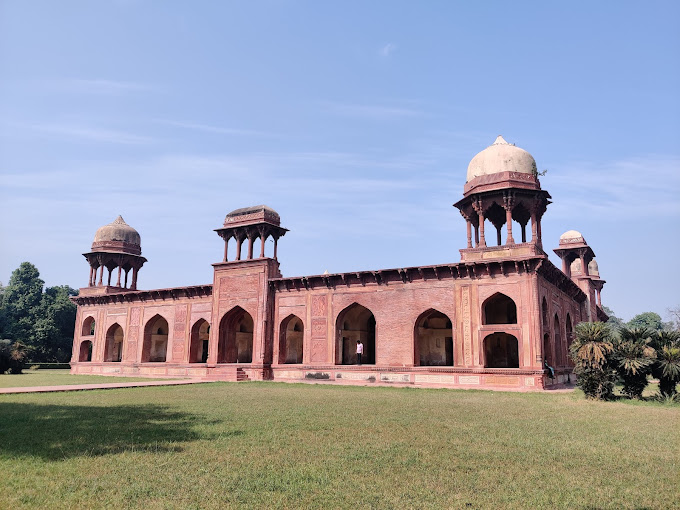
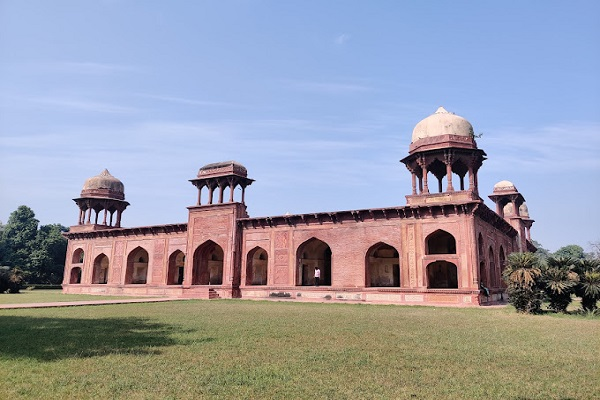
resize

diff --git a/detail-info/bibi-ka-maqbara.html b/detail-info/bibi-ka-maqbara.html
@@ -1,0 +1,66 @@
+
+
+<!DOCTYPE html>
+<html lang="en">
+  <head>
+    <meta charset="UTF-8" />
+    <meta http-equiv="X-UA-Compatible" content="IE=edge" />
+    <meta name="viewport" content="width=device-width, initial-scale=1.0" />
+    <link
+      href="https://cdn.jsdelivr.net/npm/bootstrap@5.3.0-alpha1/dist/css/bootstrap.min.css"
+      rel="stylesheet"
+      integrity="sha384-GLhlTQ8iRABdZLl6O3oVMWSktQOp6b7In1Zl3/Jr59b6EGGoI1aFkw7cmDA6j6gD"
+      crossorigin="anonymous"
+    />
+    <link href="../styles.css" rel="stylesheet" />
+    <link href="../mobile.css" rel="stylesheet" />
+    <title>Bibi-Ka-Maqbara| Monuments info app </title>
+  </head>
+  <body>
+    <nav class="navbar sticky-top header">
+      <!-- Navbar content -->
+      <a class="navbar-brand logo">Monuments info App</a>
+    </nav>
+
+    <section class="detail-header">
+      <div class="container text-center">
+        <div class="row">
+          <div class="col">
+            <img src="../assets/Bibi Ka Maqbara.jpg" class="" />
+          </div>
+          <div class="col">
+            <h2 class="title text-center">Bibi Ka Maqbara</h2>
+            <hr style="color: white; height: 20px" />
+          </div>
+        </div>
+      </div>
+      <!--  -->
+    </section>
+    <section class="detail-bar" >
+      <div class=" conatiner">
+        <div class="row detail-status-bar">
+          <div class="col">
+            Country: India
+          </div>
+          <div class="col">
+            Place: Aurangabad, Maharashtra
+          </div>
+          <div class="col">
+           Type: Cultural
+          </div>
+      </div>
+    </section>
+
+    <section class="detail">
+      <p class="text">The Bibi Ka Maqbara (English: "Tomb of the Lady") is a tomb located in Aurangabad, Maharashtra, India. It was commissioned in 1660 by the Mughal emperor Aurangzeb in the memory of his wife Dilras Banu Begum (posthumously known as Rabia-ud-Daurani) and is considered to be a symbol of Aurangzeb's 'conjugal fidelity'. It bears a striking resemblance to the Taj Mahal, the mausoleum of Aurangzeb's mother, Mumtaz Mahal. Aurangzeb was not much interested in architecture though he had commissioned the small, but elegant, Pearl Mosque at Delhi. Bibi Ka Maqbara is the second largest structure that Aurangzeb has built, the largest being the Badshahi Mosque.</p>
+
+      <p class="text"> The comparison to the Taj Mahal has often obscured its very own considerable charm.[8] Due to the strong resemblance, it is also called the Dakkhani Taj (Taj of the Deccan).Bibi Ka Maqbara is the "principal monument" of Aurangabad and its historic city. An inscription found on the main entrance door mentions that this mausoleum was designed and erected by Ata-ullah, an architect and Hanspat Rai, an engineer respectively.Ata-ullah was the son of Ustad Ahmad Lahauri, the principal designer of the Taj Mahal.Aurangzeb's son, Muhammad Azam Shah was in later years put in charge of overseeing the repair-work of the mausoleum by Shah Jahan.</p>
+    </section>
+  </body>
+
+  <script
+    src="https://cdn.jsdelivr.net/npm/bootstrap@5.3.0-alpha1/dist/js/bootstrap.bundle.min.js"
+    integrity="sha384-w76AqPfDkMBDXo30jS1Sgez6pr3x5MlQ1ZAGC+nuZB+EYdgRZgiwxhTBTkF7CXvN"
+    crossorigin="anonymous"
+  ></script>
+</html>

diff --git a/index.html b/index.html
@@ -148,7 +148,9 @@
               />
               <div class="card-body">
                 <h3 class="card-text">Bibi Ka Maqbara</h3>
-                <button type="button" class="btn">Read More</button>
+                <button type="button" class="btn">
+                  <a href="./detail-info/bibi-ka-maqbara.html">Read More</a>
+                </button>
               </div>
             </div>
           </div>
@@ -184,12 +186,12 @@
           <div class="col-12 col-md-4">
             <div class="card">
               <img
-                src="./assets/Charminar.jpg"
+                src="./assets/konark-sun-temple.jpg"
                 class="card-img"
-                alt="Charminar"
+                alt="konark-sun-temple"
               />
               <div class="card-body">
-                <h3 class="card-text">Charminar</h3>
+                <h3 class="card-text">konark Sun Temple</h3>
                 <button type="button" class="btn">Read More</button>
               </div>
             </div>

diff --git a/styles.css b/styles.css
@@ -152,5 +152,5 @@ section.detail-bar {
   color: black;
   font-size: 18px;
   padding: 10px;
-  font-family: "Gill Sans", "Gill Sans MT", Calibri, "Trebuchet MS", sans-serif;
+  font-family: Cambria, Cochin, Georgia, Times, "Times New Roman", serif;
 }
